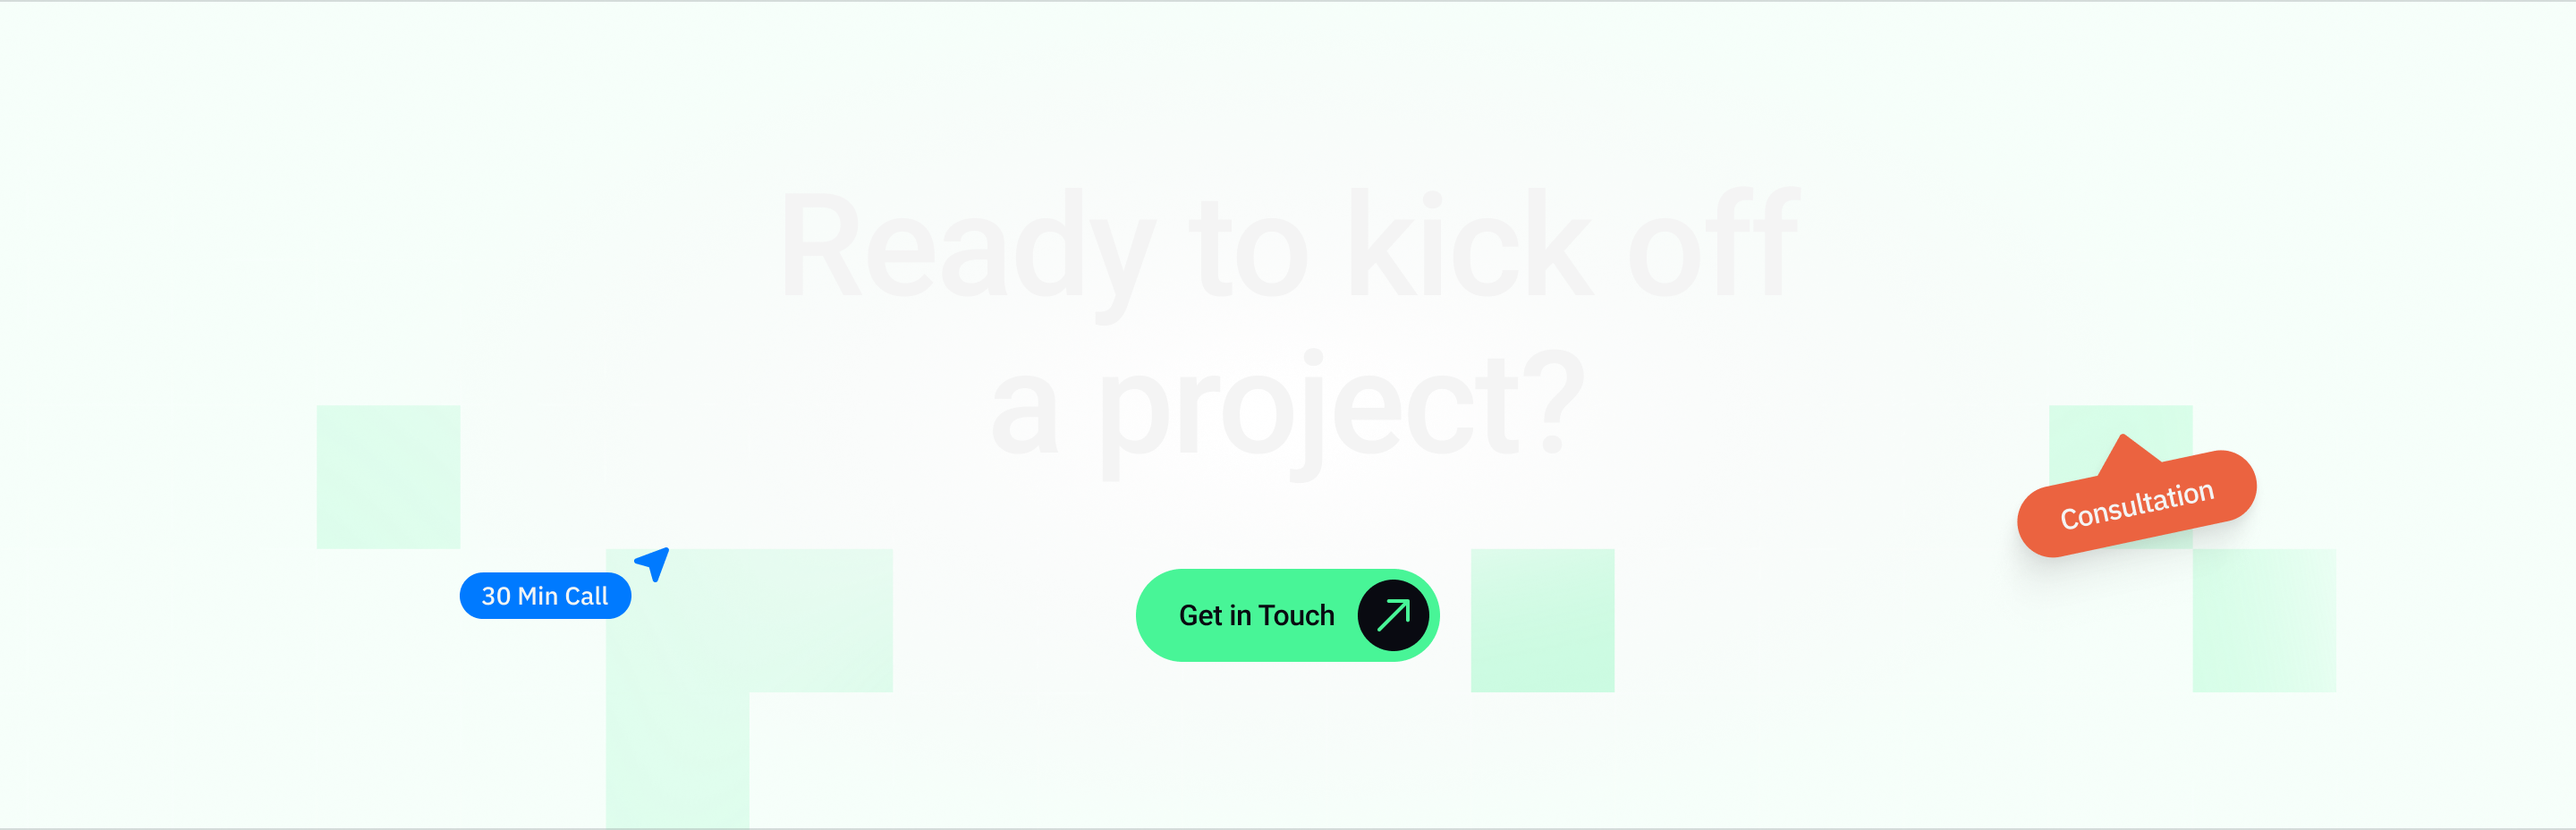
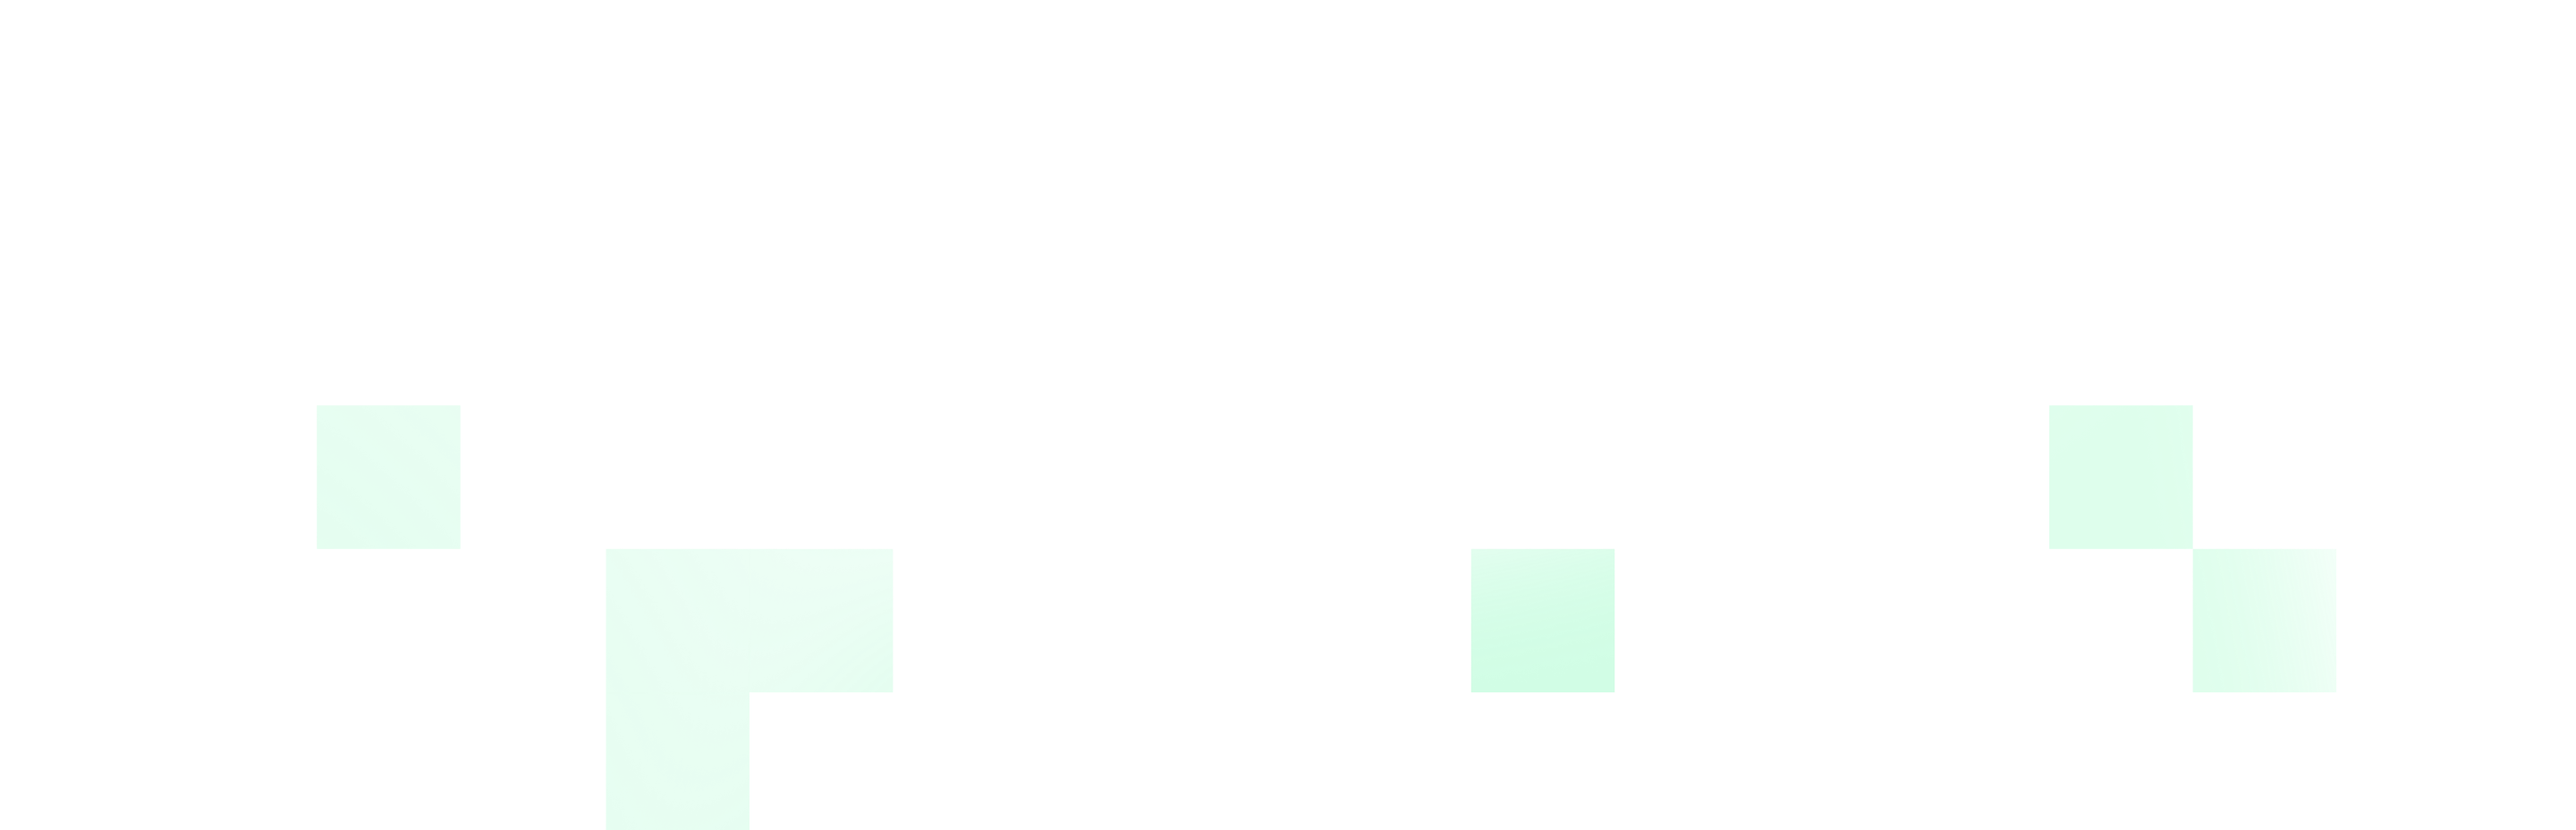
only hovers left to add

diff --git a/style.css b/style.css
@@ -1,12 +1,18 @@
 html, body {
     height: 100%;
+    font-family: Roboto, sans-serif;
+}
+
+/* Enforce Roboto across the entire project (including form controls) */
+*, *::before, *::after {
+    font-family: "Roboto", sans-serif;
 }
 
 body {
     margin: 0;
     color: #F4F4F4;
     background-color: #090A11;
-    font-family: Roboto;
+    gap: 72px;
 }
 
 .container {
@@ -14,7 +20,6 @@ body {
     box-sizing: border-box;
     display: flex;
     flex-direction: column;
-    gap: 72px;
     background-image: url('assets/zigzag-line.png');
     background-repeat: no-repeat;
     background-position: calc(50% - 370px);
@@ -239,11 +244,6 @@ body {
     margin: 0
 }
 
-.gray-text {
-    color: #A6A8AB;
-    font-weight: 400;
-}
-
 .line-height {
     line-height: 130%;
 }
@@ -263,6 +263,7 @@ body {
     cursor: pointer;
     font-family: Roboto, sans-serif;
     font-size: 16px;
+    border: none;
 
 }
 
@@ -351,6 +352,7 @@ body {
     font-size: 16px;
     font-family: Roboto, sans-serif;
     cursor: pointer;
+    border: none;
 }
 
 .how-we-build-container {
@@ -402,6 +404,172 @@ body {
     margin-bottom: 32px;
 }
 
+.kick-off-container {
+    background-image: radial-gradient(#090A1100 0%, #48F5970D 5%),
+    url('assets/kick-off-background.png');
+    background-size: contain;
+    background-position: center top;
+    background-repeat: no-repeat;
+    width: 100%;
+    display: flex;
+    flex-direction: column;
+    align-items: center;
+    justify-content: flex-start;
+    gap: 64px;
+    height: 60vh;
+    overflow: hidden;
+    align-items: center;
+    justify-content: start;
+    padding: 94px 433px 94px 433px;
+    box-sizing: border-box;
+    border-top: 1px solid #878C914D;
+}
+
+.kick-off-content-container {
+    display: flex;
+    flex-direction: column;
+    align-items: center;
+    gap: 48px;
+
+    h1 {
+        font-size: 80px;
+        margin: 0;
+        width: 80%;
+    }
+
+    .get-in-touch-button {
+    display: flex;
+    flex-direction: row;
+    align-items: center;
+    background-color: #48F597;
+    width: 21%;
+    height: 52px;
+    gap: 12px;
+    padding: 6px 6px 6px 24px;
+    border-radius: 100px;
+    color: #090A11;
+    font-weight: 500;
+    font-size: 16px;
+    font-family: Roboto, sans-serif;
+    cursor: pointer;
+    border: none;
+    }
+}
+
+.consultation-icon {
+    position: relative;
+    bottom: 155px;
+    left: 550px;
+}
+
+.min-call-icon {
+    position: relative;
+    bottom: 285px;
+    right: 470px;
+}
+
 .footer-container {
-    height: 500px;
+  position: relative;
+  min-height: 100svh;
+  display: flex;
+  flex-direction: column;
+  justify-content: space-between;
+  padding: 40px 70px 40px 70px;
+  background-image: url('assets/footer-background.png');
+  background-size: cover;
+  
+}
+
+.footer-title {
+  display: flex;
+  flex-direction: column;
+  gap: .15em;
+  font-size: clamp(48px, 10vw, 220px);
+  line-height: 125%;
+  letter-spacing: -3%;
+  font-weight: 700;
+  margin-top: 14%;
+  margin-left: 1.5%;
+}
+
+.footer-side-label {
+  position: absolute;
+  top: 50%;
+  right: 5%;
+  transform: translateY(-50%) rotate(180deg);
+  writing-mode: vertical-rl;
+  text-orientation: mixed;
+  letter-spacing: 5%;
+  line-height: 140%;
+  pointer-events: none;         
+  height: 24%;
+  font-weight: 600;
+  color: #A6A8AB;
+  
+  .footer-side-label-brand {
+    color: #48F597;
+  }
+}
+
+.footer-contact {
+    display: flex;
+    flex-direction: row;
+    justify-content: space-between;
+    gap: 24px;
+    padding-bottom: 48px;
+    border-bottom: 1px solid #A6A8AB;
+
+
+    .footer-contact-info {
+        display: flex;
+        flex-direction: row;
+        align-items: center;
+        gap: 6px;
+
+        p {
+            margin: 0;
+        }
+
+        h2 {
+            margin: 0;
+            font-weight: 600;
+        }
+    }
+  }
+
+.social-media-container {
+    display: flex;
+    flex-direction: row;
+    align-items: center;
+    gap: 24px;
+
+
+    .social-media-icon-circle {
+        display: flex;
+        align-items: center;
+        justify-content: center;
+        width: 56px;
+        height: 56px;
+        border-radius: 100px;
+        border: 1px solid #F4F4F4;
+    }
+
+}
+
+.footer-copyright {
+    display: flex;
+    flex-direction: row;
+    justify-content: space-between;
+    align-items: center;
+    gap: 24px;
+}
+
+
+.italic-text {
+    font-style: italic;
+}
+
+.gray-text {
+    color: #A6A8AB;
+    font-weight: 400;
 }

diff --git a/index.html b/index.html
@@ -132,14 +132,80 @@
             </div>
         </div>
     </div>
-    <div>
+    <div class="kick-off-container">
+        <div class="kick-off-content-container">
         <h1>
             Ready to kick off a project?
         </h1>
+        <button class="get-in-touch-button">Get in Touch
+            <img src="assets/green-arrow-icon.svg" alt="arrow-icon" width="40px" height="40px"  />
+        </button>
+    </div>
+    <img class="consultation-icon" src="assets/consultation.svg" alt="consultation" width="200px" height="140px" />
+    <img class="min-call-icon" src="assets/min-call.svg" alt="consultation" width="120px" height="44px" />
     </div>
 </body>
-<footer class="footer-container">
-    <h1>Welcome to PlayaRoo</h1>
-</footer>
+<section class="footer-container">
+    <div>
+      <h1 class="footer-title">
+        <span>Welcome to</span>
+        <span>PlayaRoo</span>
+      </h1>
+    </div>
+  
+    <aside class="footer-side-label italic-text" aria-hidden="true">
+        DIGITAL TRANSFORMATION
+        AGENCY - <span class="footer-side-label-brand italic-text">PLAYAROO</span>
+    </aside>
+  
+    <div class="footer-contact">
+        <div>
+            <p class="gray-text">
+                Have genereal inquireies? 
+            </p>
+            <div class="footer-contact-info">
+                <h2>info</h2>
+                <div class="green-dot"></div>
+            <h2>@playaroo.com</h2>
+        </div>
+        </div>
+        <div>
+            <p class="gray-text">
+                Looking for an opportunity? 
+            </p>
+            <div class="footer-contact-info">
+                <h2>jobs</h2>
+                <div class="green-dot"></div>
+                <h2>@playaroo.com</h2>
+            </div>
+        </div>
+        <div class="social-media-container">
+            <div class="social-media-icon-circle">
+            <img src="assets/facebook.svg" alt="facebook-icon" width="24px" height="24px" />
+            </div>
+            <div class="social-media-icon-circle">  
+            <img src="assets/instagram.svg" alt="instagram-icon" width="24px" height="24px" />
+            </div>
+            <div class="social-media-icon-circle">
+            <img src="assets/X.svg" alt="twitter-icon" width="24px" height="24px" />
+            </div>
+            <div class="social-media-icon-circle">
+            <img src="assets/linkedin.svg" alt="linkedin-icon" width="24px" height="24px" />
+            </div>
+        </div>
+    </div>
+    <div class="footer-copyright">
+        <div>
+            <p class="gray-text italic-text">
+                © 2025, PlayaRoo - Digital Transformation Agency
+            </p>
+        </div>
+        <div>
+            <p class="gray-text italic-text">
+                All rights reserved
+            </p>
+        </div>
+    </div>
+  </section>
 </div>
 </html>
